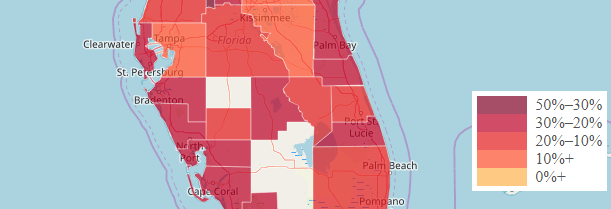
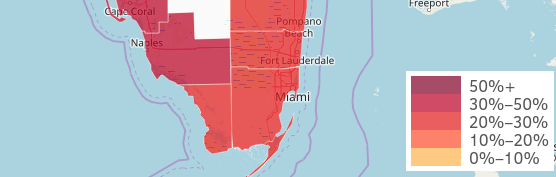
update screenshots and example for choropleth

diff --git a/_pages/examples/live/leaflet-choropleth.html b/_pages/examples/live/leaflet-choropleth.html
@@ -125,7 +125,7 @@ permalink: /examples/live/leaflet-choropleth/
             '"></i> ' +
             grades[i] +
             '%' +
-            (grades[i + 1] ? '&ndash;' + grades[i + 1] + '%' : '+') +
+            (grades[i - 1] ? '&ndash;' + grades[i - 1] + '%' : '+') +
             '<br/>';
         });
       }
